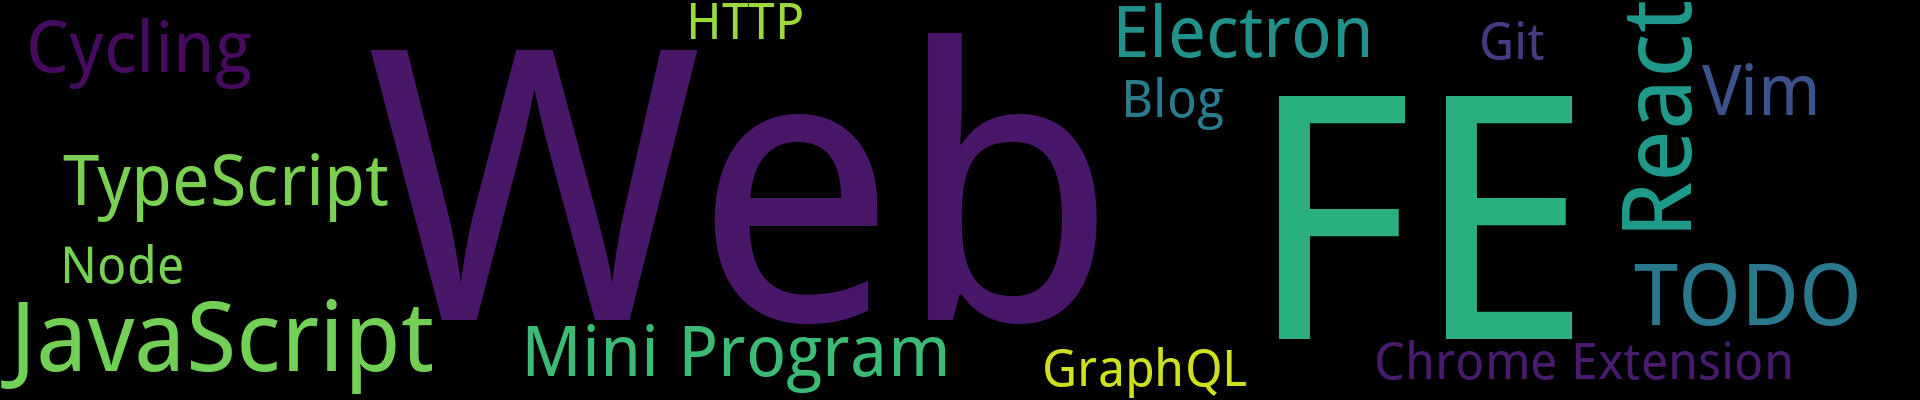
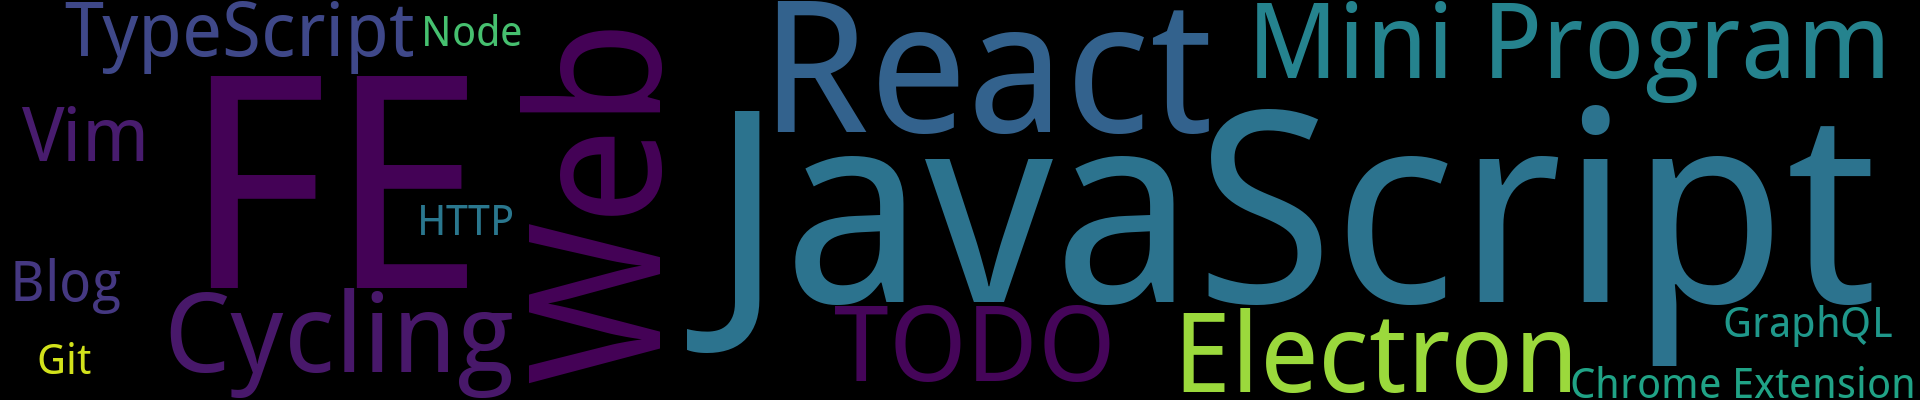
Update from Github Action

diff --git a/README.md b/README.md
@@ -1,7 +1,7 @@
 
 <p align='center'>
     <img src="https://badgen.net/github/issues/lei4519/blog"/>
-    <img src="https://badgen.net/badge/last-commit/2024-04-16 06:24:43"/>
+    <img src="https://badgen.net/badge/last-commit/2024-04-16 06:27:50"/>
 </p>
 
 <img src="assets/wordcloud.png" title="词云" alt="词云">
@@ -23,32 +23,16 @@
 
 
 
-## Web
+## FE
 
 <details open>
 
 <summary>[5 篇]</summary>
 
 <ul>
-<li><a href='https://github.com/lei4519/blog/issues/61'>System UI</a></li>
-<li><a href='https://github.com/lei4519/blog/issues/53'>JS 实现流式打包下载</a></li>
-<li><a href='https://github.com/lei4519/blog/issues/49'>模块联邦 微前端思考</a></li>
-<li><a href='https://github.com/lei4519/blog/issues/48'>使用 IntersectionObserver 实现图片懒加载</a></li>
-<li><a href='https://github.com/lei4519/blog/issues/45'>PC 端 REM 布局非 Chrome 浏览器字号小于 12px 的解决方案</a></li>
-
-</ul>
-
-</details>
-
-## FE
-
-<details open>
-
-<summary>[4 篇]</summary>
-
-<ul>
 <li><a href='https://github.com/lei4519/blog/issues/66'>大前端？终端？Omni-FrontEnd？</a></li>
 <li><a href='https://github.com/lei4519/blog/issues/65'>FMP，但中后台</a></li>
+<li><a href='https://github.com/lei4519/blog/issues/61'>Tokenize UI</a></li>
 <li><a href='https://github.com/lei4519/blog/issues/37'>使用 Umi 开发 Chrome 扩展</a></li>
 <li><a href='https://github.com/lei4519/blog/issues/36'>使用 Electron + Vue3 + TS 实现定时提醒休息软件</a></li>
 
@@ -88,16 +72,17 @@
 
 </details>
 
-## TODO
+## Web
 
 <details open>
 
-<summary>[3 篇]</summary>
+<summary>[4 篇]</summary>
 
 <ul>
-<li><a href='https://github.com/lei4519/blog/issues/64'>训练：骑行和跑步的差异</a></li>
-<li><a href='https://github.com/lei4519/blog/issues/61'>System UI</a></li>
-<li><a href='https://github.com/lei4519/blog/issues/57'>JS Engine</a></li>
+<li><a href='https://github.com/lei4519/blog/issues/53'>JS 实现流式打包下载</a></li>
+<li><a href='https://github.com/lei4519/blog/issues/49'>模块联邦 微前端思考</a></li>
+<li><a href='https://github.com/lei4519/blog/issues/48'>使用 IntersectionObserver 实现图片懒加载</a></li>
+<li><a href='https://github.com/lei4519/blog/issues/45'>PC 端 REM 布局非 Chrome 浏览器字号小于 12px 的解决方案</a></li>
 
 </ul>
 
@@ -140,6 +125,20 @@
 <ul>
 <li><a href='https://github.com/lei4519/blog/issues/43'>小程序框架原理总结</a></li>
 <li><a href='https://github.com/lei4519/blog/issues/42'>给原生小程序安排上 Composition API</a></li>
+
+</ul>
+
+</details>
+
+## TODO
+
+<details open>
+
+<summary>[2 篇]</summary>
+
+<ul>
+<li><a href='https://github.com/lei4519/blog/issues/64'>训练：骑行和跑步的差异</a></li>
+<li><a href='https://github.com/lei4519/blog/issues/57'>JS Engine</a></li>
 
 </ul>
 
